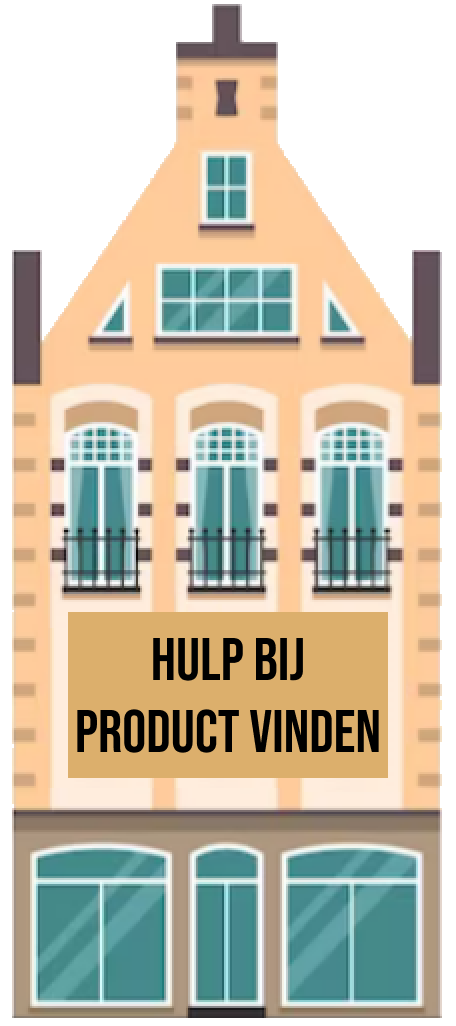
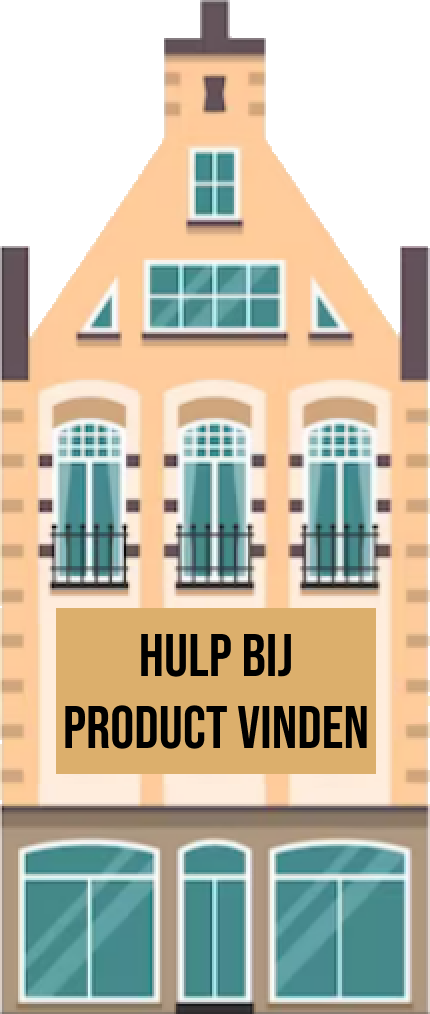
update pictures & stylecss

diff --git a/css/style.css b/css/style.css
@@ -19,12 +19,13 @@ header {
 
 .winkels {
     display: flex;
+    align-items: flex-end;
     width: 100%;
     height: 100%;
 }
 
 main {
-    margin: 20% 100px 0;
+    margin: 15% 100px 0;
 }
 
 .winkel-image {
